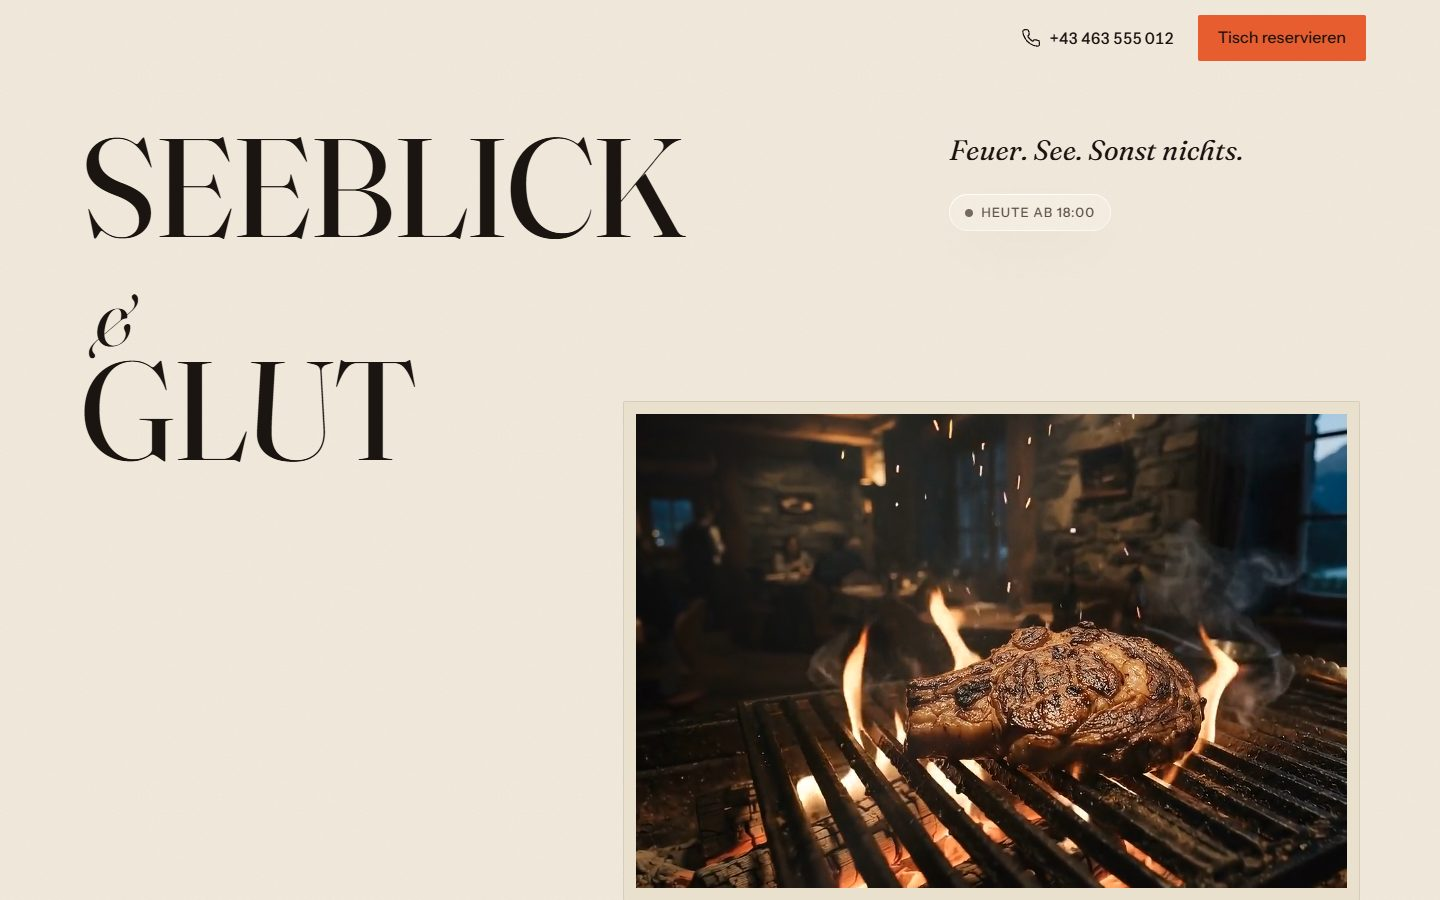
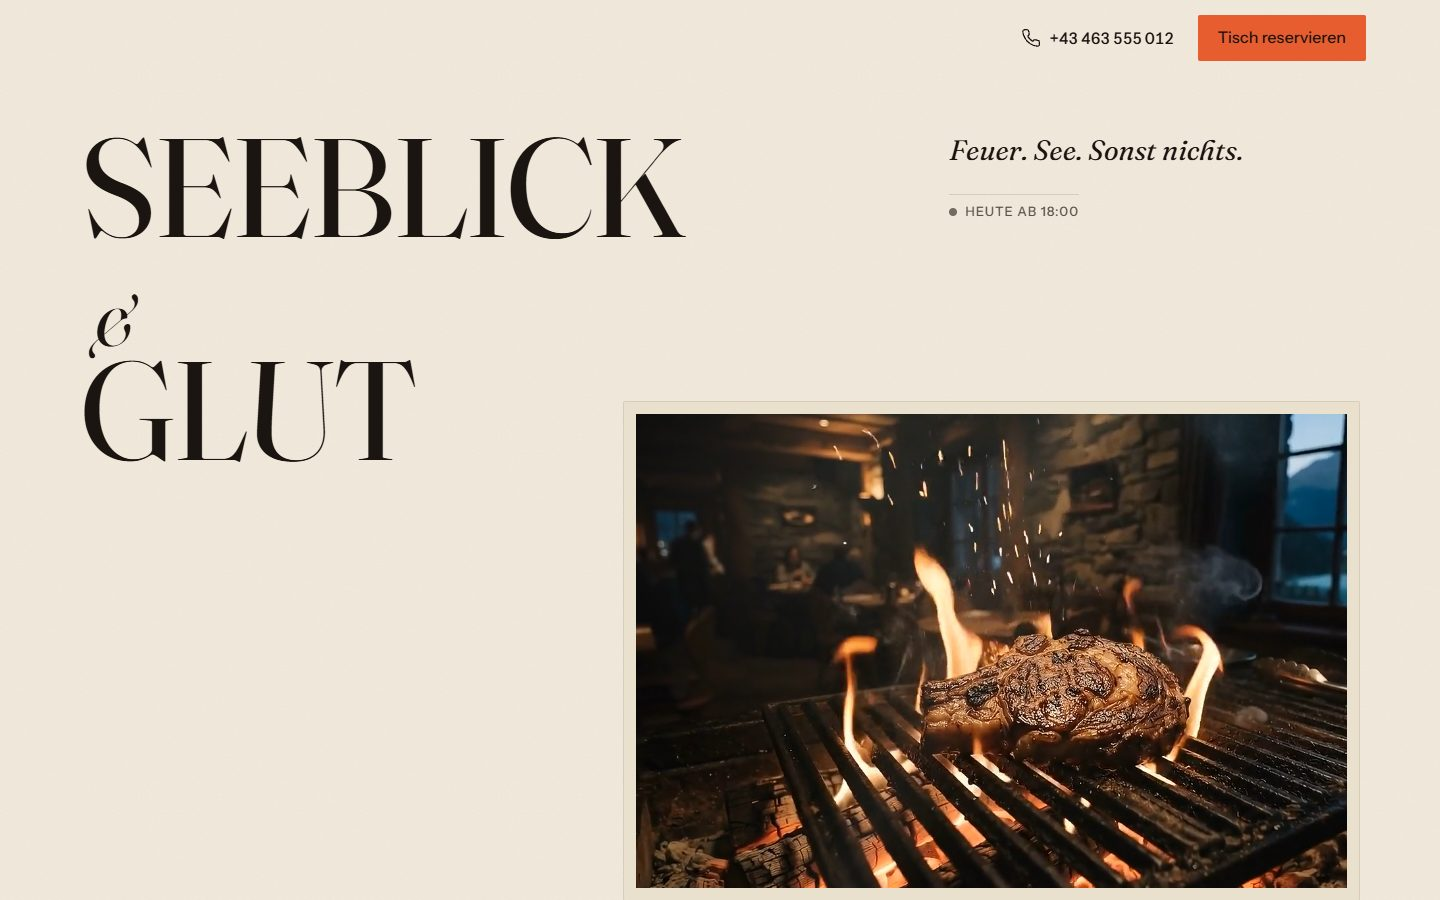
Finish-review fix round: ember discipline, failsafe, focus, closing window
- Praktisches light: candle + lake, still; no ember on paper, no ambient loops
- head failsafe: page as printed if the app never signals ready (6 s)
- hidden header mark and off-screen dock leave the tab order (visibility)
- closing band: lake view framed as window 09 on a night mat, no scrim; glass card overlaps it
- hearth hairline: ember on a night track (5.68:1); tile labels ink-2; rail is paper, not glass
- intro 2.0–3.2 s; Pause label only; status hours parsed from site.ts
- scripts/measure.mjs: LCP/CLS under slow-4G CDP throttling; GitHub Pages workflow

diff --git a/src/styles/global.css b/src/styles/global.css
@@ -454,8 +454,9 @@ html {
   text-decoration: none;
   white-space: nowrap;
   opacity: 0;
+  visibility: hidden;
   transform: translateY(4px);
-  transition: opacity 300ms var(--ease-out), transform 300ms var(--ease-out);
+  transition: opacity 300ms var(--ease-out), transform 300ms var(--ease-out), visibility 0s 300ms;
 }
 
 .header__bar > .status {
@@ -470,7 +471,9 @@ html {
 .header.is-solid .header__mark,
 html:not(.js) .header__mark {
   opacity: 1;
+  visibility: visible;
   transform: none;
+  transition: opacity 300ms var(--ease-out), transform 300ms var(--ease-out), visibility 0s;
 }
 
 .header__mark em {
@@ -539,25 +542,7 @@ html:not(.js) .header__mark {
   background: #3f7d5a;
 }
 
-.status[data-open='true'] .status__dot::after {
-  content: '';
-  position: absolute;
-  inset: -4px;
-  border-radius: 50%;
-  border: 1px solid #3f7d5a;
-  animation: pulse 2.4s var(--ease-out) infinite;
-}
 
-@keyframes pulse {
-  from {
-    transform: scale(0.6);
-    opacity: 0.9;
-  }
-  to {
-    transform: scale(1.8);
-    opacity: 0;
-  }
-}
 
 /* ---------- Fenster ---------- */
 
@@ -716,8 +701,8 @@ html:not(.js) .header__mark {
   display: inline-flex;
   align-items: center;
   gap: 10px;
-  padding: 10px 16px;
-  border-radius: 999px;
+  padding-top: var(--s-2);
+  border-top: 1px solid var(--line);
   width: max-content;
 }
 
@@ -858,14 +843,23 @@ html:not(.js) .header__mark {
 .hearth__line {
   /* Ember appearance 2: the hearth hairline fills as the column is read. */
   position: absolute;
-  left: 5px;
+  left: 4px;
   top: var(--mat);
   bottom: var(--mat);
-  width: 2px;
+  width: 4px;
+  padding: 1px;
+  background: var(--night);
+  border-radius: 1px;
+  z-index: 3;
+}
+
+.hearth__line::after {
+  content: '';
+  display: block;
+  height: 100%;
   background: var(--ember);
   transform-origin: top;
   transform: scaleY(var(--stoke, 1));
-  z-index: 3;
 }
 
 .js .hearth__line {
@@ -1082,25 +1076,15 @@ html:not(.js) .header__mark {
   isolation: isolate;
 }
 
-/* The light in the card: an ember warmth and a lake coolness behind the glass tiles. */
+/* The light in the card: candlelight from one side, lake light from the other — the two
+   lights of the room, still, behind the glass tiles. Not ember: nothing glows except fire. */
 .prakt__light {
   position: absolute;
   inset: -20%;
   z-index: -1;
-  background: radial-gradient(40% 50% at 18% 22%, rgba(232, 93, 47, 0.32), transparent 70%),
-    radial-gradient(45% 55% at 86% 78%, rgba(46, 85, 96, 0.34), transparent 70%),
-    radial-gradient(30% 30% at 70% 15%, rgba(255, 190, 140, 0.35), transparent 70%);
+  background: radial-gradient(42% 50% at 18% 20%, rgba(214, 170, 112, 0.34), transparent 70%),
+    radial-gradient(45% 55% at 86% 80%, rgba(46, 85, 96, 0.3), transparent 70%);
   filter: blur(10px);
-}
-
-.js .prakt__light {
-  animation: drift 18s var(--ease-in-out) infinite alternate;
-}
-
-@keyframes drift {
-  to {
-    transform: translate3d(4%, -3%, 0) rotate(6deg);
-  }
 }
 
 .prakt__title {
@@ -1120,7 +1104,7 @@ html:not(.js) .header__mark {
   display: flex;
   align-items: center;
   gap: 8px;
-  color: var(--ink-3);
+  color: var(--ink-2);
   margin-bottom: 10px;
 }
 
@@ -1191,30 +1175,40 @@ html:not(.js) .header__mark {
   isolation: isolate;
 }
 
+.reserve__grid {
+  align-items: center;
+}
+
 .reserve__view {
-  position: absolute;
-  inset: 0;
-  z-index: -1;
+  grid-column: 1 / -1;
+  grid-row: 1;
+  padding: var(--mat);
+  background: var(--night-2);
+  border: 1px solid #2a2420;
+  border-radius: var(--radius);
 }
 
 .reserve__view img {
   width: 100%;
-  height: 100%;
+  aspect-ratio: 3 / 4;
   object-fit: cover;
   object-position: 50% 45%;
-  opacity: 0.9;
 }
 
-.reserve__view::after {
-  content: '';
-  position: absolute;
-  inset: 0;
-  background: linear-gradient(90deg, rgba(12, 10, 9, 0.92) 0%, rgba(12, 10, 9, 0.55) 45%, rgba(12, 10, 9, 0.15) 100%),
-    linear-gradient(0deg, var(--night) 0%, transparent 30%, transparent 75%, rgba(12, 10, 9, 0.8) 100%);
+.reserve__cap {
+  display: flex;
+  gap: 10px;
+  padding-top: 12px;
+  color: var(--paper-dim);
 }
 
 .reserve__card {
   grid-column: 1 / -1;
+  grid-row: 2;
+  margin-top: -96px;
+  margin-inline: var(--s-3);
+  position: relative;
+  z-index: 2;
   padding: var(--s-5) var(--s-4);
   display: grid;
   gap: var(--s-4);
@@ -1251,9 +1245,21 @@ html:not(.js) .header__mark {
   }
 }
 
+@media (min-width: 700px) {
+  .reserve__view img {
+    aspect-ratio: 16 / 9;
+  }
+}
+
 @media (min-width: 900px) {
+  .reserve__view {
+    grid-column: 5 / 13;
+    max-width: none;
+  }
   .reserve__card {
     grid-column: 1 / 7;
+    grid-row: 1;
+    margin: 0;
   }
 }
 
@@ -1305,6 +1311,8 @@ html:not(.js) .header__mark {
   gap: 12px;
   padding: 10px 16px;
   border-radius: 999px;
+  background: var(--paper-2);
+  border: 1px solid var(--line);
   color: var(--ink-2);
   opacity: 0;
   transform: translateY(8px);
@@ -1358,11 +1366,14 @@ html:not(.js) .header__mark {
   padding: 8px;
   border-radius: 16px;
   transform: translateY(140%);
-  transition: transform 400ms var(--ease-out);
+  visibility: hidden;
+  transition: transform 400ms var(--ease-out), visibility 0s 400ms;
 }
 
 .dock.is-on {
   transform: none;
+  visibility: visible;
+  transition: transform 400ms var(--ease-out), visibility 0s;
 }
 
 .dock__call {
@@ -1558,4 +1569,9 @@ html:not(.js) .header__mark {
   .header .btn {
     padding: 10px 14px;
   }
+}
+
+/* Failsafe: if the app script never runs, the page is shown as printed (see Base.astro). */
+.no-app .loader {
+  display: none !important;
 }

diff --git a/src/scripts/status.ts b/src/scripts/status.ts
@@ -1,8 +1,14 @@
-// Live "open now" line, computed from the hours in site.ts (Tue–Sun 12:00–14:30, 18:00–22:30, Europe/Vienna).
-const SERVICES: [number, number][] = [
-  [12 * 60, 14 * 60 + 30],
-  [18 * 60, 22 * 60 + 30],
-];
+import { site } from '../content/site';
+
+// Live "open now" line, computed from site.schema.openingHours ('Tu-Su 12:00-14:30', …), Europe/Vienna.
+const toMin = (t: string) => {
+  const [h, m] = t.split(':').map(Number);
+  return h * 60 + m;
+};
+const SERVICES: [number, number][] = site.schema.openingHours.map((s) => {
+  const [, from, to] = s.match(/(\d{2}:\d{2})-(\d{2}:\d{2})/)!;
+  return [toMin(from), toMin(to)];
+});
 const DAYS = ['Sonntag', 'Montag', 'Dienstag', 'Mittwoch', 'Donnerstag', 'Freitag', 'Samstag'];
 const hhmm = (m: number) => `${String(Math.floor(m / 60)).padStart(2, '0')}:${String(m % 60).padStart(2, '0')}`;
 

diff --git a/src/scripts/loader.ts b/src/scripts/loader.ts
@@ -3,8 +3,8 @@ import gsap from 'gsap';
 // The intro plays once per session. The night pane holds the Remotion wordmark, counts the
 // windows 00 → 08 as the page loads, then closes down onto window 00: the dark is handed
 // to the first window and the paper page is revealed around it.
-const MIN_MS = 2600;
-const MAX_MS = 4200;
+const MIN_MS = 2000;
+const MAX_MS = 3200;
 
 export function runLoader(): Promise<void> {
   const root = document.documentElement;

diff --git a/src/scripts/main.ts b/src/scripts/main.ts
@@ -11,6 +11,9 @@ initDishes();
 initChrome();
 initGlut();
 
+// Tells the head failsafe the app is alive; set only after every init above has run.
+(window as Window & { __sgReady?: boolean }).__sgReady = true;
+
 runLoader().then(() => {
   settleWordmark();
   initReveals();

diff --git a/src/scripts/video.ts b/src/scripts/video.ts
@@ -29,7 +29,6 @@ function play(v: HTMLVideoElement) {
 function syncButtons() {
   document.querySelectorAll<HTMLButtonElement>('[data-pause]').forEach((b) => {
     b.textContent = paused ? 'Abspielen' : 'Pause';
-    b.setAttribute('aria-pressed', String(paused));
   });
 }
 

diff --git a/.olympus/08-metrics.md b/.olympus/08-metrics.md
@@ -1,0 +1,28 @@
+# 08 — Metrics (targets only)
+
+No analytics exist on this site and none were installed (the Datenschutz text promises no
+tracking cookies). Everything below is a **target or a measurement plan**, not a result.
+
+## Business outcome
+
+| Signal | Target | How it could be measured without tracking |
+|---|---|---|
+| Friday/Saturday dinner fully booked by 19:00 | every week in season | owner's reservation book, weekly tally |
+| Calls during service about Mondays, parking, terrace, gluten-free | → near zero | owner tallies "FAQ calls" for two weeks before and after launch |
+| Reservations arriving by e-mail vs phone | e-mail share rises | count of `reservierung@` messages per week |
+
+## Page behaviour (if the client later opts into privacy-friendly analytics, e.g. Plausible)
+
+| Event | Element | Why |
+|---|---|---|
+| `tel_click` | header phone, Praktisches tile, closing band, mobile dock | primary action |
+| `mail_click` | closing band e-mail, Feste "Anfragen" | secondary action |
+| `reach_reserve` | `#reservieren` ≥ 50 % visible | did the page carry them to the action |
+| `map_click` | "Auf Karte anzeigen" | arrival intent |
+
+## Performance targets (from 06-build-plan.md, see 07-qa.md for what was measured)
+
+LCP ≤ 2.0 s on 4G · INP ≤ 200 ms (incl. §4) · CLS 0 · first-view ≤ 350 KB before video ·
+three.js chunk ≤ 170 KB gz · video ≤ 9 MB desktop / 4.5 MB mobile · §4 ≥ 55 fps desktop / ≥ 30 fps mobile.
+
+Re-measure on the deployed GitHub Pages URL with PageSpeed Insights (mobile) after launch.
